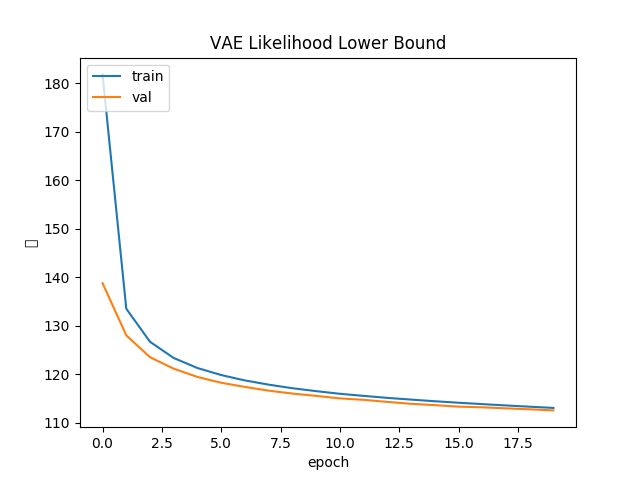
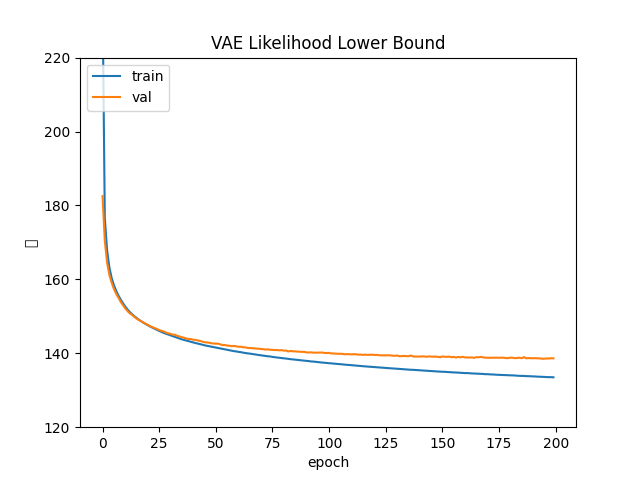
Sample randomly from x_train

diff --git a/VAE.py b/VAE.py
@@ -199,6 +199,7 @@ def plot_lowerbound(history):
     plt.title('VAE Likelihood Lower Bound')
     plt.ylabel('𝓁')
     plt.xlabel('epoch')
+    plt.ylim(120,220)
     # VALIDATION NOT WORKING ????
     plt.legend(['train', 'val'], loc='upper left')
     plt.savefig("images/lower_bound.png")
@@ -224,6 +225,9 @@ if __name__ == "__main__":
     # Import the data set.
     mnist = tf.keras.datasets.mnist
     (x_train, y_train), (x_test, y_test) = mnist.load_data()
+
+    #x_train = x_train[np.random.randint(x_train.shape[0],size=1000)]
+
     n_data, height, width = x_train.shape
     input_dim = height * width
     # Reshape data to (60000,784) in mnist case
@@ -232,7 +236,7 @@ if __name__ == "__main__":
 
     # Create the VAE.
     encoder_hidden_dim = 500
-    latent_dim = 10
+    latent_dim = 3
     decoder_hidden_dim = 500
     vae = VAE(input_dim=input_dim, encoder_hidden_dim=encoder_hidden_dim, latent_dim=latent_dim,
               decoder_hidden_dim=decoder_hidden_dim, name="vae")
@@ -246,8 +250,8 @@ if __name__ == "__main__":
     vae.compile(optimizer)
 
     # Fit model.
-    epochs = 20
-    batch_size = 32
+    epochs = 200
+    batch_size = 100
     history = vae.fit(x_train_flattened, x_train_flattened,
                       epochs=epochs, batch_size=batch_size, shuffle=True, validation_data=(x_test_flattened, x_test_flattened))
     plot_lowerbound(history)
